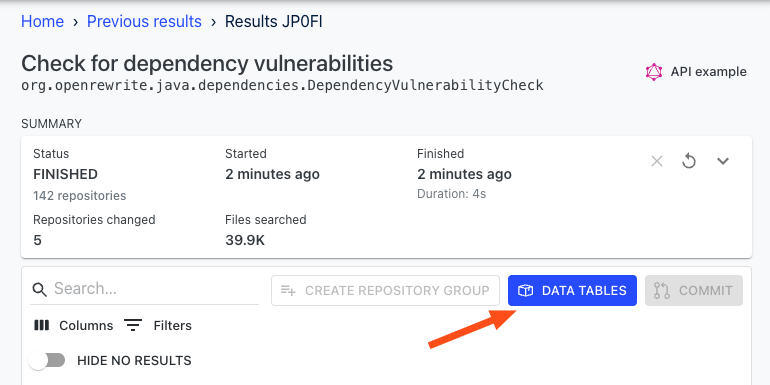
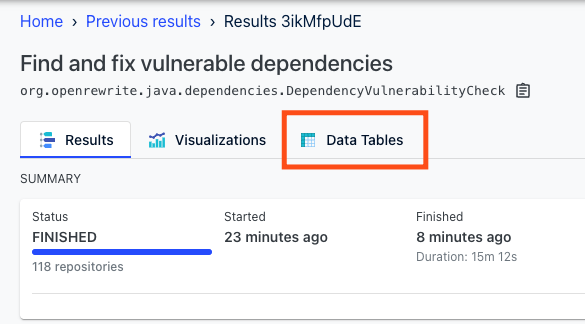
Update data tables doc with new images

diff --git a/user-documentation/data-tables.md b/user-documentation/data-tables.md
@@ -38,7 +38,7 @@ You will then be taken to the recipe results page:
 
 If the recipe can fix a security vulnerability, it will do so. You can view the diffs and commit the results as you would in any other recipe. In most situations, however, this recipe will identify that there is a security vulnerability rather than fix it. If there are security vulnerabilities identified, the recipe will produce a detailed data table.
 
-To see the data table, wait until the recipe has finished running and then click on the `Data Tables` button:
+To see the data table, wait until the recipe has finished running and then click on the `Data Tables` tab:
 
 ![](/.gitbook/assets/check-dep-2.png)
 
